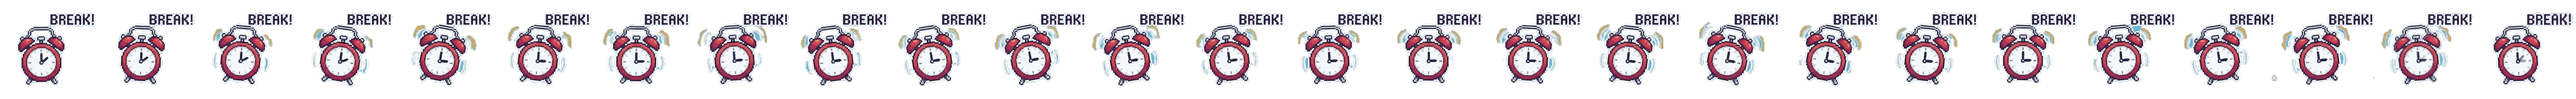
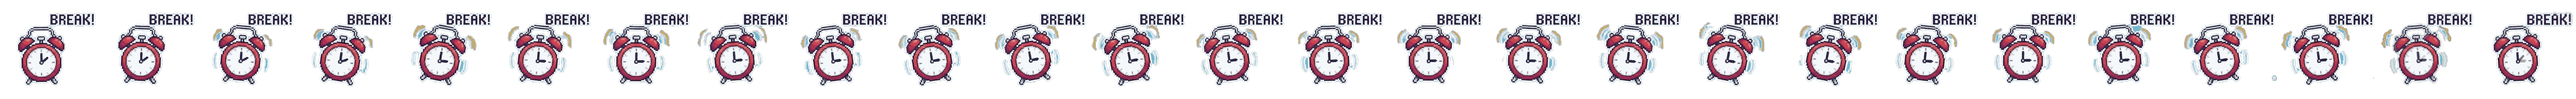
perf: shrink the frames file from 12.5 MB to 8.2 MB
- Frame strips are now saved through tools/strip_palette.py, which cuts
  each strip to 256 colors, then merges the palette down to 48 by
  k-means, weighting each entry by the square root of its pixel count.
  Quantizing straight to 48 flattened the seal's pale shading, and
  weighting by the plain count turned small props grey.
- All 12 strips in assets/ are re-saved with the new palette.
- build.rs writes the frame PNGs with no filter, which packs these
  indexed images smaller.
- Frames move by one to five steps in 255 on average.

- ภาพท่าทางทุกท่าบันทึกผ่าน tools/strip_palette.py ซึ่งลดเหลือ 256 สี
  ก่อน แล้วรวมพาเลตต์ลงเหลือ 48 สีด้วย k-means โดยให้น้ำหนักแต่ละสี
  ตามรากที่สองของจำนวนพิกเซลที่ใช้ ถ้าลดเหลือ 48 สีตรง ๆ เงาสีอ่อน
  บนตัวแมวน้ำจะแบนไป และถ้าให้น้ำหนักตามจำนวนพิกเซลตรง ๆ
  ของชิ้นเล็ก ๆ จะกลายเป็นสีเทา
- บันทึกภาพทั้ง 12 ท่าใน assets/ ใหม่ด้วยพาเลตต์ใหม่
- build.rs เขียน PNG ของแต่ละเฟรมแบบไม่ใช้ filter
  ซึ่งทำให้ภาพแบบ indexed เหล่านี้เล็กลง
- สีของเฟรมเปลี่ยนไปโดยเฉลี่ย 1 ถึง 5 ระดับจาก 255

Changed region(s): [[0.9364, 0.3077, 0.9676, 0.3385]]

diff --git a/tools/strip_palette.py b/tools/strip_palette.py
@@ -1,0 +1,81 @@
+"""Save the pet's frame strips with a 48-color palette, or shrink strips already saved.
+
+    python tools/strip_palette.py assets/happy.png ...   (needs Pillow and NumPy)
+
+A strip is first cut to 256 colors, then its palette is merged down to COLORS by k-means over
+the palette entries, each weighted by the square root of how many pixels use it. Quantizing
+straight to fewer colors flattens the pale shading that covers most of the seal; merging the
+palette keeps it, because the rare colors are the ones that get folded together. Weighting by
+the plain count folded small props into their surroundings (the shovel's wooden handle went
+grey); the square root keeps them. Against 256 colors the frames file is about a quarter
+smaller and the pixels move by one to five steps in 255 on average.
+"""
+import sys
+from pathlib import Path
+
+import numpy as np
+from PIL import Image
+
+COLORS = 48
+ROUNDS = 50                     # k-means rounds; 256 points settle long before this
+
+
+def shrink(img, colors=COLORS):
+    """8-bit palette image -> the same image on a palette of at most `colors` entries."""
+    idx = np.asarray(img)
+    pal = np.array(img.getpalette()[:768], np.float64).reshape(-1, 3)
+    pal = np.pad(pal, ((0, 256 - len(pal)), (0, 0)))
+    alpha = np.full(256, 255.0)
+    trns = img.info.get('transparency')
+    if isinstance(trns, bytes):
+        alpha[:len(trns)] = list(trns)
+    elif trns is not None:
+        alpha[trns] = 0
+    weight = np.sqrt(np.bincount(idx.ravel(), minlength=256))
+    used = np.flatnonzero(weight)
+    if len(used) <= colors:
+        return img
+    # premultiplied, so every clear entry is the same point whatever its color
+    pts = np.c_[pal * alpha[:, None] / 255, alpha][used]
+    w = weight[used]
+    # the first center stays fully clear, or the clear background would pick up a faint tint;
+    # the rest start from the most used entries, then refine
+    seen = pts[:, 3] > 0
+    centers = np.vstack([np.zeros(4), pts[seen][np.argsort(-w[seen])[:colors - 1]]])
+    for _ in range(ROUNDS):
+        label = ((pts[:, None] - centers[None]) ** 2).sum(-1).argmin(1)
+        moved = centers.copy()
+        for k in range(1, colors):
+            m = label == k
+            if m.any():
+                moved[k] = (pts[m] * w[m, None]).sum(0) / w[m].sum()
+        if np.allclose(moved, centers):
+            break
+        centers = moved
+    label = ((pts[:, None] - centers[None]) ** 2).sum(-1).argmin(1)
+    a = centers[:, 3].clip(0, 255)
+    rgb = np.where(a[:, None] > 0, centers[:, :3] * 255 / np.maximum(a[:, None], 1), 0).clip(0, 255)
+    remap = np.zeros(256, np.uint8)
+    remap[used] = label
+    out = Image.fromarray(remap[idx], 'P')
+    out.putpalette(rgb.round().astype(np.uint8).ravel().tolist())
+    out.info['transparency'] = bytes(a.round().astype(np.uint8))
+    return out
+
+
+def save_strip(strip, path):
+    """RGBA strip -> the pet's 8-bit palette PNG at `path`."""
+    write(shrink(strip.quantize(colors=256, method=Image.Quantize.FASTOCTREE)), path)
+
+
+def write(img, path):
+    extra = {'transparency': img.info['transparency']} if 'transparency' in img.info else {}
+    img.save(path, optimize=True, **extra)
+
+
+if __name__ == '__main__':
+    for arg in sys.argv[1:]:
+        path = Path(arg)
+        before = path.stat().st_size
+        write(shrink(Image.open(path)), path)
+        print(f'{path}: {before // 1024} KB -> {path.stat().st_size // 1024} KB')

diff --git a/tools/video_states.py b/tools/video_states.py
@@ -7,7 +7,7 @@ it; the sleeping seal keeps its zZ; the swimmer gets back the tail the clip lose
 trimmed to a stretch that loops without a jump, cropped to a tight 1:1 square and written:
 
     assets/gif/<state>.gif       300 x 300, 12.5 fps, transparent
-    assets/<state>.png           the pet's strip: 260 x 260 frames, 256 colors with alpha
+    assets/<state>.png           the pet's strip: 260 x 260 frames, 48 colors with alpha
 """
 import subprocess
 import sys
@@ -20,6 +20,7 @@ from scipy import ndimage
 
 sys.path.insert(0, str(Path(__file__).resolve().parent))
 from seg import QUAD, cut  # noqa: E402
+from strip_palette import save_strip  # noqa: E402
 
 ROOT = Path(__file__).resolve().parent.parent
 SRC = ROOT / 'art' / 'states.mp4'
@@ -129,7 +130,7 @@ def main():
             strip = Image.new('RGBA', (STRIP * len(frames), STRIP), (0, 0, 0, 0))
             for i, fr in enumerate(frames):
                 strip.paste(fr, (i * STRIP, 0))
-            strip.quantize(colors=256, method=Image.Quantize.FASTOCTREE).save(ROOT / 'assets' / f'{state}.png', optimize=True)
+            save_strip(strip, ROOT / 'assets' / f'{state}.png')
             kb = lambda p: p.stat().st_size // 1024
             print(f'{state}: clip frames {start}-{end}, {side}px square, '
                   f'{len(frames)} frames, {round(1000 * STEP / 24)} ms each; '

diff --git a/tools/clip_pose.py b/tools/clip_pose.py
@@ -10,7 +10,7 @@ of the fur's gap to white stays (video_poses.py's 0.55 when left out), so less i
 Bubbles drifting off across the grid, away from the seal, are left out.
 
     assets/gif/<pose>.gif     300 x 300, the clip's own length, transparent
-    assets/<pose>.png               the pet's strip: 260 x 260 frames, every 2nd frame, 256 colors with alpha
+    assets/<pose>.png               the pet's strip: 260 x 260 frames, every 2nd frame, 48 colors with alpha
 """
 import subprocess
 import sys
@@ -21,6 +21,7 @@ from PIL import Image
 from scipy import ndimage
 
 from sheet_pose import cut
+from strip_palette import save_strip
 from video_poses import GIF, PAD, STEP, STRIP, WHITEN, save_gif
 
 ROOT = Path(__file__).resolve().parent.parent
@@ -77,7 +78,7 @@ def build(src, name, keep):
     for n, q in enumerate(picked):
         strip.paste(q.resize((STRIP, STRIP), Image.LANCZOS).convert('RGBA'), (n * STRIP, 0))
     png = ROOT / 'assets' / f'{name}.png'
-    strip.quantize(colors=256, method=Image.Quantize.FASTOCTREE).save(png, optimize=True)
+    save_strip(strip, png)
     print(f'{path.relative_to(ROOT).as_posix()}: {side}px square, {len(squares)} frames, '
           f'{ends[-1] / 1000:.2f} s, {path.stat().st_size // 1024} KB; '
           f'strip {len(picked)} frames, {png.stat().st_size // 1024} KB')

diff --git a/tools/video_poses.py b/tools/video_poses.py
@@ -14,7 +14,7 @@ clip, cutting off the white sticker edge there, so that edge is drawn back in. E
 the backdrop's own blue, stay whole.
 
     assets/gif/<pose>.gif     300 x 300, 25 fps, transparent
-    assets/<pose>.png               the pet's strip: 260 x 260 frames, every 2nd frame, 256 colors with alpha
+    assets/<pose>.png               the pet's strip: 260 x 260 frames, every 2nd frame, 48 colors with alpha
 """
 import subprocess
 import sys
@@ -24,6 +24,8 @@ import numpy as np
 from PIL import Image
 from scipy import ndimage
 from scipy.spatial import Delaunay
+
+from strip_palette import save_strip
 
 ROOT = Path(__file__).resolve().parent.parent
 OUT = ROOT / 'assets' / 'gif'
@@ -408,7 +410,7 @@ def build(v):
         for n, fr in enumerate(frames):
             strip.paste(fr, (n * STRIP, 0))
         png = ROOT / 'assets' / f'{name}.png'
-        strip.quantize(colors=256, method=Image.Quantize.FASTOCTREE).save(png, optimize=True)
+        save_strip(strip, png)
         print(f'{path.relative_to(ROOT).as_posix()}: clip frames {i}-{j - 1}, {side}px square, '
               f'{len(squares)} frames, {path.stat().st_size // 1024} KB; '
               f'strip {len(frames)} frames, {png.stat().st_size // 1024} KB')

diff --git a/tools/sheet_pose.py b/tools/sheet_pose.py
@@ -10,7 +10,7 @@ a little apart from cell to cell, so each is moved to stand where the first does
 on the same row, the middle of its base on the same column.
 
     assets/gif/<pose>.gif     300 x 300, transparent
-    assets/<pose>.png               the pet's strip: 260 x 260 frames, 256 colors with alpha
+    assets/<pose>.png               the pet's strip: 260 x 260 frames, 48 colors with alpha
 """
 import sys
 from pathlib import Path
@@ -19,6 +19,7 @@ import numpy as np
 from PIL import Image
 from scipy import ndimage
 
+from strip_palette import save_strip
 from video_poses import GIF, PAD, STRIP, WHITEN, save_gif, whiten
 
 ROOT = Path(__file__).resolve().parent.parent
@@ -93,7 +94,7 @@ def build(sheet, name, ms):
     for n, q in enumerate(squares):
         strip.paste(q.resize((STRIP, STRIP), Image.LANCZOS).convert('RGBA'), (n * STRIP, 0))
     png = ROOT / 'assets' / f'{name}.png'
-    strip.quantize(colors=256, method=Image.Quantize.FASTOCTREE).save(png, optimize=True)
+    save_strip(strip, png)
     print(f'{path.relative_to(ROOT).as_posix()}: {side}px square, {len(squares)} frames of {ms} ms, '
           f'{path.stat().st_size // 1024} KB; strip {png.stat().st_size // 1024} KB')
 

diff --git a/build.rs b/build.rs
@@ -64,6 +64,7 @@ fn main() {
             encoder.set_color(png::ColorType::Indexed);
             encoder.set_depth(png::BitDepth::Eight);
             encoder.set_compression(png::Compression::Best);
+            encoder.set_filter(png::FilterType::NoFilter);
             encoder.set_palette(palette.clone());
             if let Some(trns) = &trns {
                 encoder.set_trns(trns.clone());

diff --git a/docs/en/technical.md b/docs/en/technical.md
@@ -100,7 +100,7 @@ Where the cost comes from:
   fixed-point sums worked out once per row and column, skipping the clear space around
   them. Turning the bubble off saves this.
 - **Memory:** `build.rs` cuts each strip in `assets/` into one small PNG per frame, and
-  those go into `ai-mascot-hook.frames` beside the exe (about 12.5 MB for the 12 strips;
+  those go into `ai-mascot-hook.frames` beside the exe (about 8.2 MB for the 12 strips;
   the exe is under 1 MB). The seal maps that file, so it is read from disk as needed and
   not counted as the app's own memory, as when the frames were in the exe. Only the frame on
   screen is unpacked, one byte a pixel (260 × 260, about 66 KB), and the buffers are
